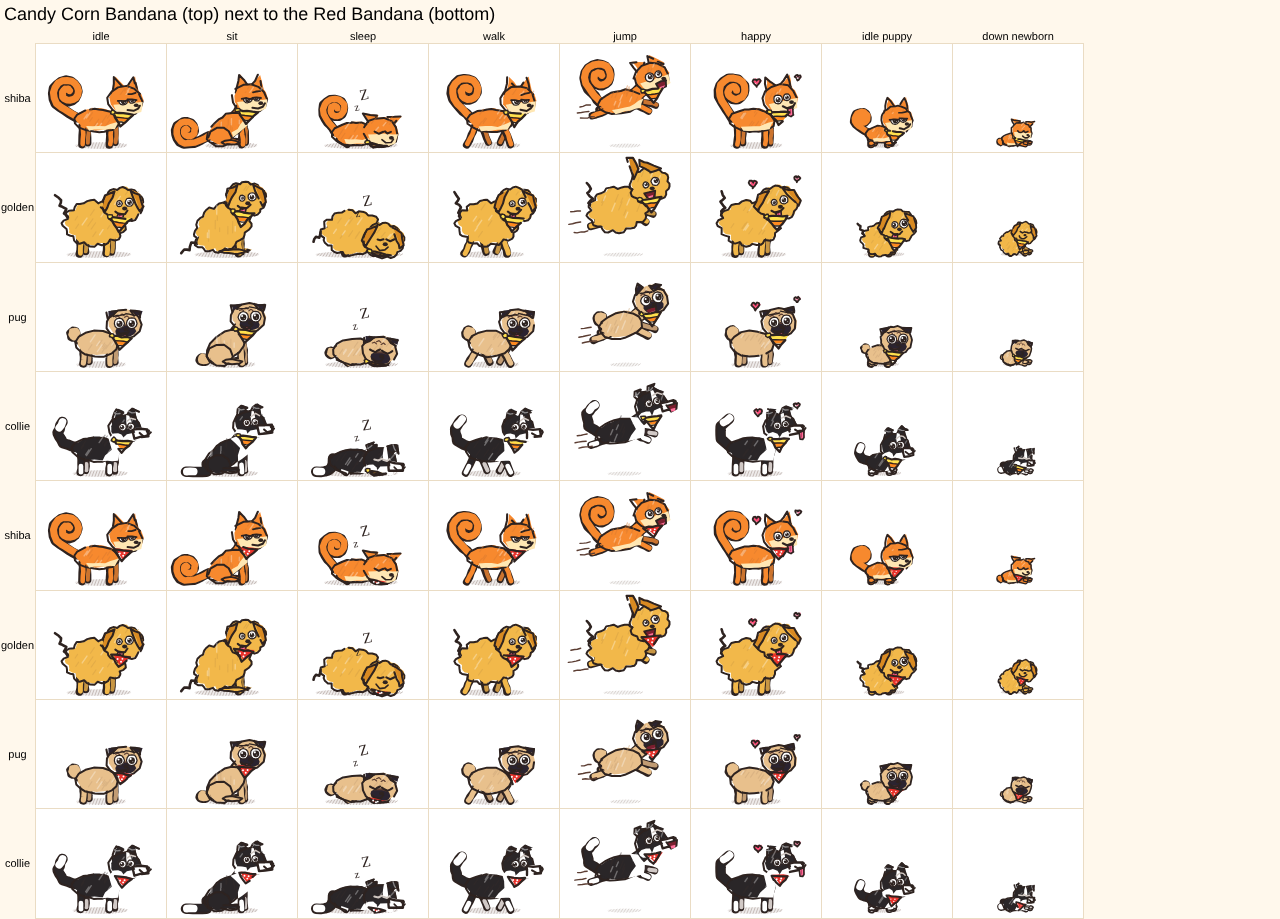
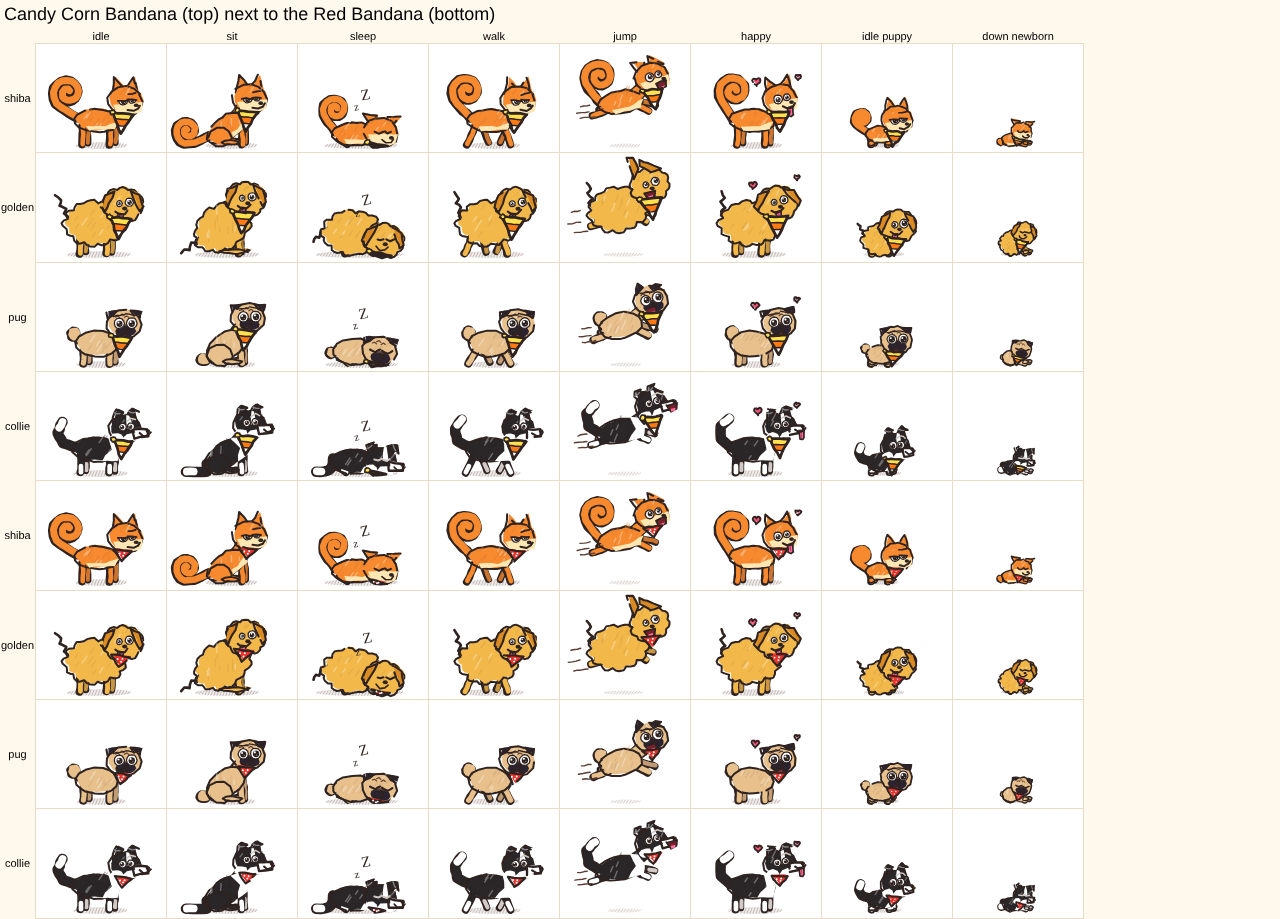
dog-art: Candy Corn Bandana longer, white tip below the chin, heavier ink edge
From the art review: nearly invisible on the golden and read as a striped collar
on shiba and corgi. The tip now hangs at 2.1 head radii (1.6 when the head is
tipped: howl, rollover, playdead), a 5 px ink edge and a dark inner edge line.
Before/after sheets: game/shots_v26/dog-art/fix_bandana_{before,after}.png.

Claude-Session: https://claude.ai/code/session_01KgDaB7w4Z7SPNj7s6w9mDf

diff --git a/dogs/pawart_dogs.js b/dogs/pawart_dogs.js
@@ -689,13 +689,15 @@ HAT2['Witch Hat']=function(h,s,L,HT){// a tall black cone, the tip crooked and f
   const bk=P([W2*.12,-8]);h.shape([[-3.6,-3.4],[3.6,-3.4],[3.6,3.4],[-3.6,3.4]].map(q=>[bk[0]+q[0],bk[1]+q[1]]),'#FFD23A',{w:2,ox:0,oy:0,sc:1,closed:1,amp:.3,famp:.2});h.dot(bk[0],bk[1],1.3,1.3,HW_BK);
   const br=[];for(let i=0;i<20;i++){const a=i/20*Math.PI*2,c=Math.cos(a);br.push([c*hx*1.12,1+Math.sin(a)*5.5+(c>.5?(c-.5)*12:0)+(c<-.7?(-.7-c)*7:0)])}
   h.shape(br.map(P),HW_BK,{w:3.6,step:8});h.line(br.slice(1,9).map(q=>[q[0]*.86,q[1]*.6+1.5]).map(P),1.6,HW_GR,.4)};
-function drawCandyCorn(h,s,L,HT){// Candy Corn Bandana: a triangle in yellow, orange and white stripes, the white at the tip
-  const a=neckAnchor(s,HT),m=[(a.l[0]+a.r[0])/2,(a.l[1]+a.r[1])/2],t=clampG([m[0]+(a.tip[0]-m[0])*1.22,m[1]+(a.tip[1]-m[1])*1.22]),l=[a.l[0]-(a.r[0]-a.l[0])*.06,a.l[1]],r=[a.r[0]+(a.r[0]-a.l[0])*.04,a.r[1]];
-  const lp=(p,q,u)=>[p[0]+(q[0]-p[0])*u,p[1]+(q[1]-p[1])*u],o={noline:1,ox:1.4,oy:-1,sc:1,famp:.6};
-  const l1=lp(l,t,.34),r1=lp(r,t,.34),l2=lp(l,t,.68),r2=lp(r,t,.68);
-  h.shape([l,r,t],'#FFE14D',o);h.shape([l1,r1,r2,l2],'#FF8A1F',o);h.shape([l2,r2,t],'#FFFDF6',o);
-  h.line([l1,r1],2.6,INK,.5);h.line([l2,r2],2.6,INK,.5);h.shape([l,r,t],null,{w:4.2,step:9});
-  h.shape(circ(l[0],l[1],4.6,4,7),'#FFE14D',{w:2.6,ox:0,oy:0,sc:1,closed:1})}
+function drawCandyCorn(h,s,L,HT){// Candy Corn Bandana: a long triangle in yellow, orange and white stripes, the white tip hanging well below the chin, a heavy ink edge so it reads on yellow and orange coats
+  const a=neckAnchor(s,HT),hx=s.head.rx,hy=s.head.ry,up=/^(howl|rollover|playdead)$/.test(L.pose),t=clampG(HT([-hx*.24,hy*(up?1.6:2.1)])),l=[a.l[0]-(a.r[0]-a.l[0])*.08,a.l[1]],r=[a.r[0]+(a.r[0]-a.l[0])*.06,a.r[1]];
+  const lp=(p,q,u)=>[p[0]+(q[0]-p[0])*u,p[1]+(q[1]-p[1])*u],o={noline:1,ox:1,oy:-.6,sc:1,famp:.5};
+  const l1=lp(l,t,.3),r1=lp(r,t,.3),l2=lp(l,t,.62),r2=lp(r,t,.62);
+  h.shape([l,r,t],'#FFE14D',o);h.shape([l1,r1,r2,l2],'#FF7A12',o);h.shape([l2,r2,t],'#FFFDF6',o);
+  const ins=(p,q,k)=>[p[0]+(t[0]-p[0])*k*.06+(q[0]-p[0])*k*.04,p[1]+(t[1]-p[1])*k*.06+(q[1]-p[1])*k*.04];// a step in from an edge, for the inner line
+  h.line([ins(l,r,1),lp(ins(l,r,1),t,.92)],2,'#9A4A10',.4);h.line([ins(r,l,1),lp(ins(r,l,1),t,.92)],2,'#9A4A10',.4);
+  h.line([l1,r1],2.8,INK,.5);h.line([l2,r2],2.8,INK,.5);h.shape([l,r,t],null,{w:5,step:9,closed:1});
+  h.shape(circ(l[0],l[1],5,4.4,7),'#FFE14D',{w:3,ox:0,oy:0,sc:1,closed:1})}
 function hwHem(a,b,n,dep){// a scalloped hem from a to b (local px): n soft arcs with little points between, dep = how far the points hang
   const o=[];for(let i=0;i<=n;i++){const t=i/n,x=a[0]+(b[0]-a[0])*t,y=a[1]+(b[1]-a[1])*t;o.push([x,y+dep]);if(i<n){const u=(i+.5)/n;o.push([a[0]+(b[0]-a[0])*u,a[1]+(b[1]-a[1])*u-dep*.2])}}return o}
 BACK2['Vampire Cape']=function(h,s,L,B){// the far side of the cape: it flares out past the rump and swishes, black outside with the red lining showing
